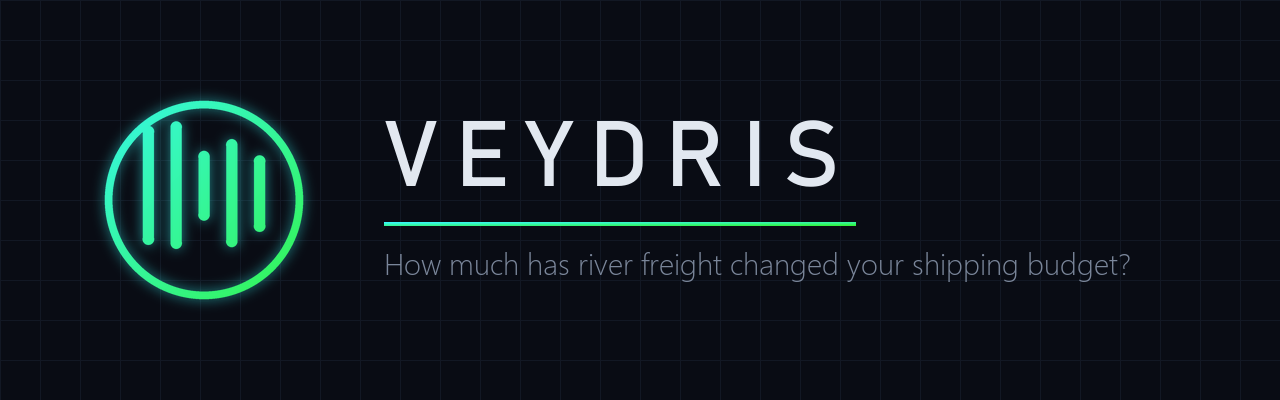
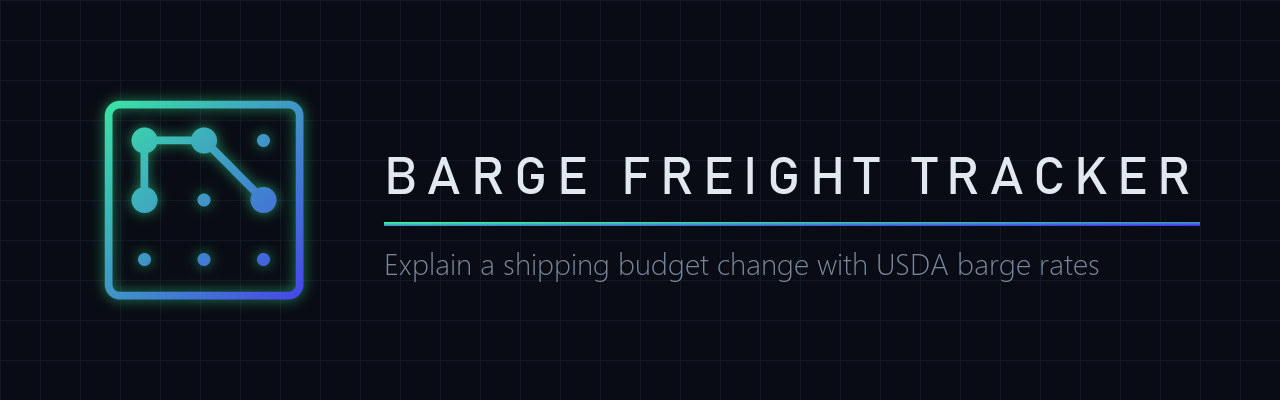
Rename to Barge Freight Tracker and tidy the README

diff --git a/barge_freight/report.html b/barge_freight/report.html
@@ -1,10 +1,10 @@
 <!doctype html>
 <html lang="en"><head><meta charset="utf-8"><meta name="viewport" content="width=device-width, initial-scale=1">
-<title>Veydris | Freight budget tracker</title>
+<title>Barge Freight Tracker | Freight budget tracker</title>
 <style>
 :root{font:16px system-ui,sans-serif;color:#e4edf5;background:#0c1724;color-scheme:dark}body{max-width:1180px;margin:auto;padding:40px 24px}h1{font-size:46px;margin:8px 0}h2{font-size:23px}p{color:#adbecf;line-height:1.65}.eyebrow{color:#65d5b4;letter-spacing:3px;font-size:13px}.panel{background:#142536;border:1px solid #2b4256;border-radius:16px;padding:25px;margin:24px 0}.controls{display:grid;grid-template-columns:repeat(4,1fr);gap:18px}label{display:grid;gap:8px;color:#adbecf}input,select,button{font:inherit;border:1px solid #526a80;padding:12px;border-radius:7px;background:#0c1724;color:#fff;min-width:0}button{cursor:pointer;background:#286859}button:disabled{opacity:.4}.cards{display:grid;grid-template-columns:repeat(3,1fr);gap:20px}.value{display:block;font-size:30px;color:#fff;margin:12px 0}svg{width:100%;height:auto}a{color:#65d5b4}table{width:100%;border-collapse:collapse}td,th{text-align:left;padding:12px;border-bottom:1px solid #34485b}.table-scroll{max-height:320px;overflow:auto}#status{color:#74ddbe}@media(max-width:760px){.controls,.cards{grid-template-columns:1fr}h1{font-size:34px}}
 </style></head><body>
-<header><div class="eyebrow">VEYDRIS / RIVER FREIGHT INTELLIGENCE</div><h1>Explain the shipping budget change.</h1>
+<header><div class="eyebrow">BARGE FREIGHT TRACKER / RIVER FREIGHT INTELLIGENCE</div><h1>Explain the shipping budget change.</h1>
 <p>Compare two USDA observation dates at the same shipment volume. Freight estimates in USD per short ton (2,000 lb).</p></header>
 <section class="panel" aria-label="Shipment controls"><div class="controls">
 <label>Origin<select id="origin"></select></label><label>Shipment / short tons<input id="tons" type="number" min="0" step="any"></label>
@@ -68,6 +68,6 @@ function update(){
 function refreshDates(){const series=data.series[el('origin').value];for(const id of ['budget','comparison']){const old=el(id).value||data[id];el(id).replaceChildren();data.dates.forEach(day=>option(el(id),day,day+(series[day]===null?' / unavailable':'')));el(id).value=old;}draw();update();}
 el('origin').addEventListener('change',refreshDates);
 for(const id of ['tons','budget','comparison'])el(id).addEventListener('input',update);
-el('download').addEventListener('click',()=>{if(!csvRow)return;const quote=s=>'"'+String(s).replaceAll('"','""')+'"';const csv=Object.keys(csvRow).map(quote).join(',')+'\r\n'+Object.values(csvRow).map(quote).join(',')+'\r\n';const url=URL.createObjectURL(new Blob([csv],{type:'text/csv;charset=utf-8'}));const a=document.createElement('a');a.href=url;a.download='veydris-variance.csv';a.click();setTimeout(()=>URL.revokeObjectURL(url),1000);});
+el('download').addEventListener('click',()=>{if(!csvRow)return;const quote=s=>'"'+String(s).replaceAll('"','""')+'"';const csv=Object.keys(csvRow).map(quote).join(',')+'\r\n'+Object.values(csvRow).map(quote).join(',')+'\r\n';const url=URL.createObjectURL(new Blob([csv],{type:'text/csv;charset=utf-8'}));const a=document.createElement('a');a.href=url;a.download='barge_freight-variance.csv';a.click();setTimeout(()=>URL.revokeObjectURL(url),1000);});
 refreshDates();
 </script></body></html>

diff --git a/docs/report.html b/docs/report.html
@@ -1,10 +1,10 @@
 <!doctype html>
 <html lang="en"><head><meta charset="utf-8"><meta name="viewport" content="width=device-width, initial-scale=1">
-<title>Veydris | Freight budget tracker</title>
+<title>Barge Freight Tracker | Freight budget tracker</title>
 <style>
 :root{font:16px system-ui,sans-serif;color:#e4edf5;background:#0c1724;color-scheme:dark}body{max-width:1180px;margin:auto;padding:40px 24px}h1{font-size:46px;margin:8px 0}h2{font-size:23px}p{color:#adbecf;line-height:1.65}.eyebrow{color:#65d5b4;letter-spacing:3px;font-size:13px}.panel{background:#142536;border:1px solid #2b4256;border-radius:16px;padding:25px;margin:24px 0}.controls{display:grid;grid-template-columns:repeat(4,1fr);gap:18px}label{display:grid;gap:8px;color:#adbecf}input,select,button{font:inherit;border:1px solid #526a80;padding:12px;border-radius:7px;background:#0c1724;color:#fff;min-width:0}button{cursor:pointer;background:#286859}button:disabled{opacity:.4}.cards{display:grid;grid-template-columns:repeat(3,1fr);gap:20px}.value{display:block;font-size:30px;color:#fff;margin:12px 0}svg{width:100%;height:auto}a{color:#65d5b4}table{width:100%;border-collapse:collapse}td,th{text-align:left;padding:12px;border-bottom:1px solid #34485b}.table-scroll{max-height:320px;overflow:auto}#status{color:#74ddbe}@media(max-width:760px){.controls,.cards{grid-template-columns:1fr}h1{font-size:34px}}
 </style></head><body>
-<header><div class="eyebrow">VEYDRIS / RIVER FREIGHT INTELLIGENCE</div><h1>Explain the shipping budget change.</h1>
+<header><div class="eyebrow">BARGE FREIGHT TRACKER / RIVER FREIGHT INTELLIGENCE</div><h1>Explain the shipping budget change.</h1>
 <p>Compare two USDA observation dates at the same shipment volume. Freight estimates in USD per short ton (2,000 lb).</p></header>
 <section class="panel" aria-label="Shipment controls"><div class="controls">
 <label>Origin<select id="origin"></select></label><label>Shipment / short tons<input id="tons" type="number" min="0" step="any"></label>
@@ -68,6 +68,6 @@ function update(){
 function refreshDates(){const series=data.series[el('origin').value];for(const id of ['budget','comparison']){const old=el(id).value||data[id];el(id).replaceChildren();data.dates.forEach(day=>option(el(id),day,day+(series[day]===null?' / unavailable':'')));el(id).value=old;}draw();update();}
 el('origin').addEventListener('change',refreshDates);
 for(const id of ['tons','budget','comparison'])el(id).addEventListener('input',update);
-el('download').addEventListener('click',()=>{if(!csvRow)return;const quote=s=>'"'+String(s).replaceAll('"','""')+'"';const csv=Object.keys(csvRow).map(quote).join(',')+'\r\n'+Object.values(csvRow).map(quote).join(',')+'\r\n';const url=URL.createObjectURL(new Blob([csv],{type:'text/csv;charset=utf-8'}));const a=document.createElement('a');a.href=url;a.download='veydris-variance.csv';a.click();setTimeout(()=>URL.revokeObjectURL(url),1000);});
+el('download').addEventListener('click',()=>{if(!csvRow)return;const quote=s=>'"'+String(s).replaceAll('"','""')+'"';const csv=Object.keys(csvRow).map(quote).join(',')+'\r\n'+Object.values(csvRow).map(quote).join(',')+'\r\n';const url=URL.createObjectURL(new Blob([csv],{type:'text/csv;charset=utf-8'}));const a=document.createElement('a');a.href=url;a.download='barge_freight-variance.csv';a.click();setTimeout(()=>URL.revokeObjectURL(url),1000);});
 refreshDates();
 </script></body></html>

diff --git a/tests/test_barge_freight.py b/tests/test_barge_freight.py
@@ -16,10 +16,10 @@ from decimal import Decimal
 from pathlib import Path
 from unittest.mock import patch
 
-from veydris.core import (BENCHMARKS, SAMPLE, Observation, compare,
+from barge_freight.core import (BENCHMARKS, SAMPLE, Observation, compare,
                           dollars_per_ton, load, money, write_csv, timeline)
-from veydris.refresh import publish
-from veydris.report import report
+from barge_freight.refresh import publish
+from barge_freight.report import report
 
 FIXTURE = Path(__file__).with_name('fixtures') / 'usda-2026-11-15.csv'
 
@@ -147,7 +147,7 @@ class FreightTests(unittest.TestCase):
                     raise PermissionError('Simulated metadata publication failure')
                 return replace(source, destination)
 
-            with patch('veydris.refresh.os.replace', side_effect=fail_metadata):
+            with patch('barge_freight.refresh.os.replace', side_effect=fail_metadata):
                 with self.assertRaises(PermissionError):
                     publish(original.replace(b'548.21', b'548.22'), path)
             self.assertEqual(path.read_bytes(), original)
@@ -155,7 +155,7 @@ class FreightTests(unittest.TestCase):
 
     def test_cli_creates_report(self):
         with workspace_temp() as tmp:
-            result = subprocess.run([sys.executable, '-m', 'veydris', '--data', str(FIXTURE), '--budget', '2026-11-03',
+            result = subprocess.run([sys.executable, '-m', 'barge_freight', '--data', str(FIXTURE), '--budget', '2026-11-03',
                                      '--comparison', '2026-11-10', '--output', str(Path(tmp)/'report.html')],
                                     capture_output=True, text=True)
             self.assertEqual(result.returncode, 0, result.stderr)
@@ -191,7 +191,7 @@ class FreightTests(unittest.TestCase):
 
     def test_showcase_images(self):
         import struct
-        from veydris.showcase import showcase
+        from barge_freight.showcase import showcase
         with workspace_temp() as tmp, patch('urllib.request.urlopen', side_effect=AssertionError('network forbidden')):
             estimate = compare(self.records, 'St. Louis', 1500, '2026-11-03', '2026-11-10')
             showcase(self.records, estimate, tmp)

diff --git a/barge_freight/showcase.py b/barge_freight/showcase.py
@@ -34,7 +34,7 @@ def showcase(records, estimate, directory):
 
     fig, ax = plt.subplots(figsize=(12, 6.5))
     fig.subplots_adjust(left=.09, right=.95, top=.78, bottom=.22)
-    fig.text(.07, .92, 'VEYDRIS / THE COST OF A RATE CHANGE', color='#65d5b4', fontsize=12)
+    fig.text(.07, .92, 'BARGE FREIGHT TRACKER / THE COST OF A RATE CHANGE', color='#65d5b4', fontsize=12)
     fig.text(.07, .85, f'{estimate.origin}: ${estimate.variance_usd:+,.2f} against budget', fontsize=24, weight='bold')
     costs = [float(estimate.budget_cost_usd), float(estimate.comparison_cost_usd)]
     bars = ax.bar(['Budget\n'+estimate.budget_date, 'Comparison\n'+estimate.comparison_date], costs,
@@ -50,7 +50,7 @@ def showcase(records, estimate, directory):
 
     fig, ax = plt.subplots(figsize=(12, 6.5))
     fig.subplots_adjust(left=.09, right=.95, top=.78, bottom=.22)
-    fig.text(.07, .92, 'VEYDRIS / QUOTE HISTORY', color='#65d5b4', fontsize=12)
+    fig.text(.07, .92, 'BARGE FREIGHT TRACKER / QUOTE HISTORY', color='#65d5b4', fontsize=12)
     fig.text(.07, .85, f'{estimate.origin}: put the weekly change in context', fontsize=23, weight='bold')
     dates = timeline(records)
     # Include every source observation date so a missing quote breaks the line.
@@ -86,7 +86,7 @@ def showcase(records, estimate, directory):
     ax.set_xlabel('Estimated freight / USD per short ton')
     ax.grid(axis='x', alpha=.4)
     ax.set_axisbelow(True)
-    fig.text(.07, .92, 'VEYDRIS / SEVEN ORIGINS, EXPLICIT UNITS', color='#65d5b4', fontsize=12)
+    fig.text(.07, .92, 'BARGE FREIGHT TRACKER / SEVEN ORIGINS, EXPLICIT UNITS', color='#65d5b4', fontsize=12)
     fig.text(.07, .85, f'Compare freight estimates on {latest}', fontsize=24, weight='bold')
     finish(fig, 'origin-rates.png',
            'Different origins cover different river distances; these are not interchangeable routes.\nSource: USDA AMS • Freight estimates only; no accessorial charges included')

diff --git a/barge_freight/__main__.py b/barge_freight/__main__.py
@@ -1,4 +1,4 @@
-"""Run with python -m veydris; the default run uses bundled public data."""
+"""Run with python -m barge_freight; the default run uses bundled public data."""
 
 import argparse
 from pathlib import Path
@@ -8,7 +8,7 @@ from .report import report
 
 
 def main():
-    parser = argparse.ArgumentParser(description='Veydris | Barge Freight Budget Tracker')
+    parser = argparse.ArgumentParser(description='Barge Freight Tracker | Barge Freight Budget Tracker')
     parser.add_argument('--data', type=Path, default=SAMPLE)
     parser.add_argument('--origin', choices=BENCHMARKS, default='St. Louis')
     parser.add_argument('--tons', default='1500', help='Shipment volume in short tons (2,000 lb)')
@@ -44,7 +44,7 @@ def main():
             from .showcase import showcase
             showcase(records, estimate, args.showcase)
     except (ValueError, OSError, KeyError) as exc:
-        parser.exit(2, f'Veydris: {exc}\n')
+        parser.exit(2, f'Barge Freight Tracker: {exc}\n')
 
 
 if __name__ == '__main__':

diff --git a/barge_freight/__init__.py b/barge_freight/__init__.py
@@ -1,0 +1,1 @@
+"""Barge Freight Tracker: public barge freight estimates with explicit units."""

diff --git a/README.md b/README.md
@@ -1,9 +1,9 @@
-![Veydris](assets/banner.png)
+![Barge Freight Tracker](assets/banner.png)
 Barge Freight Budget Tracker — explain a shipping budget change using public USDA river freight rates.
 
-# Veydris
+# Barge Freight Tracker
 
-How much has river freight changed your shipping budget? Veydris turns weekly percent-of-tariff quotes into freight estimates, compares two exact observation dates at a fixed shipment volume, and exports an offline interactive HTML report and variance CSV.
+How much has river freight changed your shipping budget? Barge Freight Tracker turns weekly percent-of-tariff quotes into freight estimates, compares two exact observation dates at a fixed shipment volume, and exports an offline interactive HTML report and variance CSV.
 
 A grain logistics analyst can use it to explain the rate portion of a budget change. Every result states the dates and units used. Missing quotes stay unavailable, so a report cannot silently substitute a different week.
 
@@ -17,27 +17,18 @@ Windows PowerShell, from the project folder:
 python -m venv .venv
 .venv\Scripts\python.exe -m pip install -r requirements.txt
 .venv\Scripts\python.exe -m unittest -v
-.venv\Scripts\python.exe -m veydris
+.venv\Scripts\python.exe -m barge_freight
 Start-Process output/report.html
 ```
 
 On macOS/Linux, use `python3 -m venv .venv`, then replace `.venv\Scripts\python.exe` with `.venv/bin/python` in the commands above. Open `output/report.html` in your browser.
-
-For an automated runner that launches commands directly, use the full path to the project's Python executable. In this workspace, the exact commands are (run from the project folder; no environment activation needed):
-
-```text
-C:/Users/Rohit/Portfolio/veydris/.venv/Scripts/python.exe -m unittest -v
-C:/Users/Rohit/Portfolio/veydris/.venv/Scripts/python.exe -m veydris --output docs/report.html --showcase docs/showcase
-```
-
-`WinError 2` means the runner could not find an executable or path. Windows virtual environments put Python in `Scripts/python.exe`; macOS/Linux environments use `bin/python`. Create the environment and install requirements first. If you move or clone the project elsewhere, replace the full path with that checkout's interpreter path. A runner should pass the executable and arguments separately, without PowerShell's `&` prefix or activation commands. Using system Python instead can fail with `ModuleNotFoundError: matplotlib`, because dependencies are installed in the project environment. CI checks both Windows and Linux using the Python interpreter selected by setup-python.
 
 The [bundled report](docs/report.html) can also be downloaded and opened directly. It contains its own data, styles, scripts and SVG chart; it uses no CDN. Select an origin, enter short tons, choose observation dates, and download the resulting variance CSV. The observation table and date menus identify unavailable quotes explicitly.
 
 ### Example
 
 ```powershell
-.venv\Scripts\python.exe -m veydris --origin "St. Louis" --tons 1500 --budget 2026-11-03 --comparison 2026-11-10
+.venv\Scripts\python.exe -m barge_freight --origin "St. Louis" --tons 1500 --budget 2026-11-03 --comparison 2026-11-10
 ```
 
 ```text
@@ -54,7 +45,7 @@ The negative variance means the comparison estimate is **$948.62 below budget**,
 Regenerate all three 1,440 × 780 PNGs and the bundled HTML report offline:
 
 ```powershell
-.venv\Scripts\python.exe -m veydris --output docs/report.html --showcase docs/showcase
+.venv\Scripts\python.exe -m barge_freight --output docs/report.html --showcase docs/showcase
 ```
 
 ![Freight budget comparison](docs/showcase/budget-variance.png)
@@ -89,7 +80,7 @@ The bundled public snapshot has **371 records**, seven origins, and 21 missing q
 Fetch the complete public export and replace the dated demo sample:
 
 ```powershell
-.venv\Scripts\python.exe -m veydris --refresh
+.venv\Scripts\python.exe -m barge_freight --refresh
 ```
 
 This is the only command that needs network access. Full downloads go in gitignored `data/raw/`. The refresh validates the complete export, then keeps all rows from the latest 366-day window. Download or validation failure leaves the previous sample intact. Historical committed versions remain available through Git. Inspect the source metadata and rerun tests and showcase generation before adopting a refresh.

diff --git a/data/SOURCES.md b/data/SOURCES.md
@@ -9,7 +9,7 @@ Publisher: USDA Agricultural Marketing Service (AMS).
 
 The full export retrieved November 15, 2026 contained 8,351 rows. It is saved in gitignored `data/raw/usda.csv`. The bundled `sample.csv` contains 371 unchanged source rows from November 11, 2025 through November 10, 2026. Selection includes every row within 366 days of the newest source observation. All seven locations and 21 blank quotes are retained. This is a historical snapshot, not a claim of live pricing.
 
-`sample.json` records retrieval time, source URL, row counts, selection rule, units, observation range, full-export SHA-256 and sample SHA-256. `python -m veydris --refresh` downloads the complete export again and validates it before publishing a replacement sample. No application token is needed. Source schema changes stop the refresh instead of guessing column mappings.
+`sample.json` records retrieval time, source URL, row counts, selection rule, units, observation range, full-export SHA-256 and sample SHA-256. `python -m barge_freight --refresh` downloads the complete export again and validates it before publishing a replacement sample. No application token is needed. Source schema changes stop the refresh instead of guessing column mappings.
 
 `benchmarks.csv` is the canonical reference table in USD per short ton at 100% of tariff. The USDA PDF prints benchmark cents (619, 532, 399, 464, 469, 446, 314); its worked example makes clear that 619 means $6.19. The source CSV's name **Lower Illinois** maps to **ILLINOIS** in that PDF. These are documented geographic aliases, not separate markets. All other dataset origin labels are kept exactly.
 
